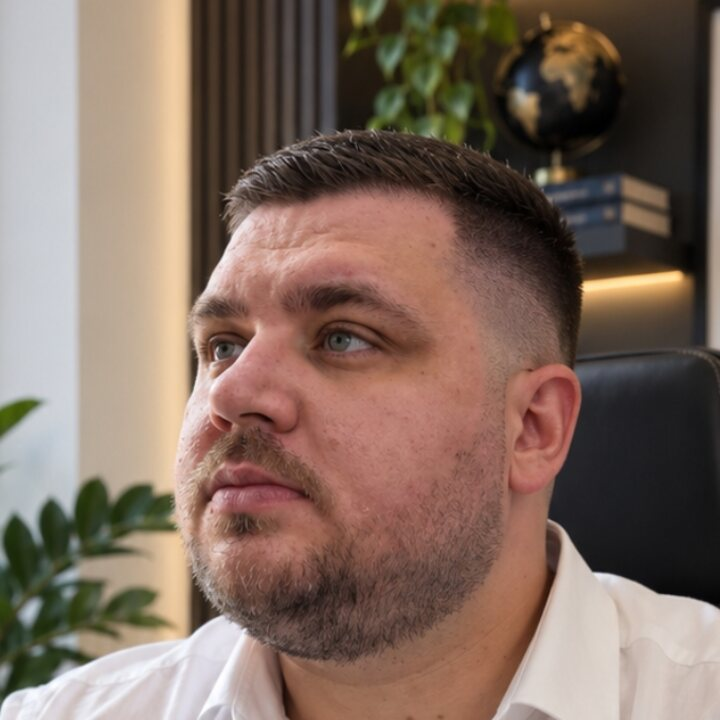
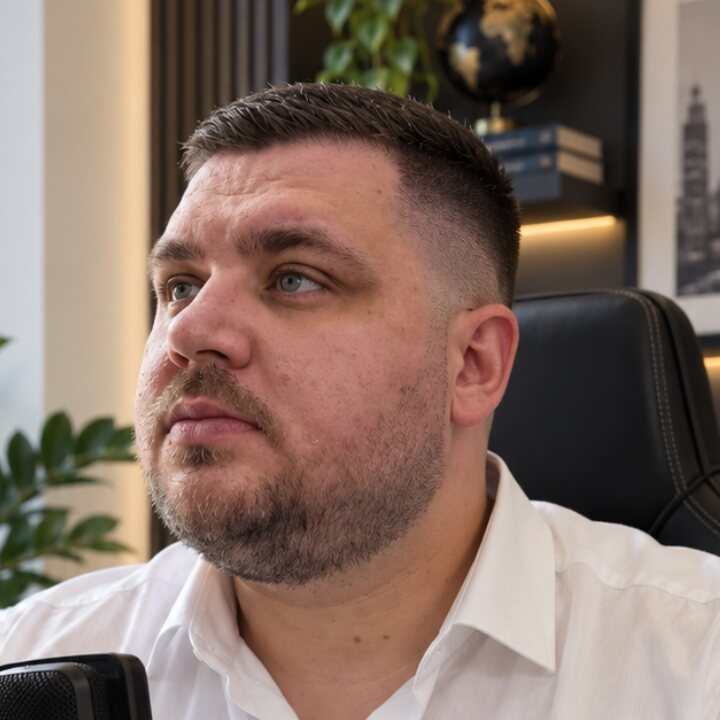
Home title in Albanian, About photo framed lower
- "MENAXHIM / PA TEATËR.": in Albanian the second line sits a little lower,
  so the dots of Ë no longer reach the line above. English and German keep
  their spacing.
- About photo: framed lower, with more of the shirt and collar and room
  above the head; the microphone stays outside the circle.

Claude-Session: https://claude.ai/code/session_01D52UkMnUd2jtt3Z5zzcbEr

diff --git a/src/styles.css b/src/styles.css
@@ -586,6 +586,8 @@ a.book-shelf-item:hover .book-shelf-text strong { color: var(--blue-soft, var(--
   background-clip: text;
   color: transparent;
 }
+/* "PA TEATËR.": the dots of Ë reach up to the line above at .88; in Albanian the second line sits a little lower. */
+.cosmos h1:lang(sq) .act { margin-top: -.08em; }
 
 .hero-copy {
   max-width: 700px;
